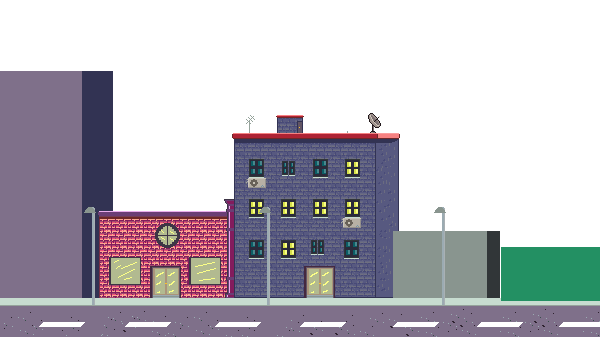
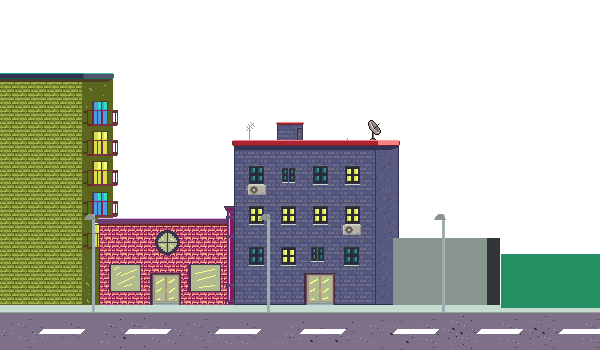
refactor: improve CustomCursor component structure and style handling feat: add unoptimized prop to Scene component image chore: update building and cursor images

Changed region(s): [[0.0, 0.2077, 1.0, 0.9792], [0.39, 0.3264, 0.66, 0.5341], [0.84, 0.7122, 1.0, 0.7418]]

diff --git a/app/components/CustomCursor.tsx b/app/components/CustomCursor.tsx
@@ -3,69 +3,75 @@
 import { useEffect, useState } from "react";
 
 export default function CustomCursor() {
-    const [pos, setPos] = useState({ x: 0, y: 0 });
-    const [clicked, setClicked] = useState(false);
+  const [pos, setPos] = useState({ x: 0, y: 0 });
+  const [clicked, setClicked] = useState(false);
 
-    useEffect(() => {
-        const move = (e: MouseEvent) => {
-            setPos({ x: e.clientX + 16, y: e.clientY + 16 });
-        }
+  useEffect(() => {
+    const move = (e: MouseEvent) => {
+      setPos({ x: e.clientX + 16, y: e.clientY + 16 });
+    };
 
-        const click = (e: MouseEvent) => {
-            if (e.type === "mousedown") setClicked(true);
-            else setClicked(false);
+    window.addEventListener("mousemove", move);
+    return () => {
+      window.removeEventListener("mousemove", move);
+    };
+  }, []);
 
-        }
+  useEffect(() => {
+    const click = (e: MouseEvent) => {
+      if (e.type === "mousedown") setClicked(true);
+      else if (e.type === "mouseup") setClicked(false);
+    };
 
-        window.addEventListener("click", click);
+    window.addEventListener("mousedown", click);
+    window.addEventListener("mouseup", click);
 
-        window.addEventListener("mousemove", move);
-        return () => {
-            window.removeEventListener("mousemove", move);
-            window.removeEventListener("click", click);
-        };
-    }, []);
+    return () => {
+      window.removeEventListener("mousedown", click);
+      window.removeEventListener("mouseup", click);
+    };
+  }, []);
 
-    return (
-        <div>
-
-            {clicked &&
-
-                <div
-                    style={{
-                        position: "fixed",
-                        left: pos.x,
-                        top: pos.y,
-                        width: "32px",
-                        height: "32px",
-                        backgroundImage: "url('/assets/cursor/pointer.png')",
-                        backgroundSize: "contain",
-                        backgroundRepeat: "no-repeat",
-                        transform: "translate(-50%, -50%)",
-                        pointerEvents: "none",
-                        zIndex: 9999,
-                        imageRendering: "pixelated",
-                    }}
-                ></div>
-            } : {
-                <div
-                    style={{
-                        position: "fixed",
-                        left: pos.x,
-                        top: pos.y,
-                        width: "32px",
-                        height: "32px",
-                        backgroundImage: "url('/assets/cursor/pointerClicked.png')",
-                        backgroundSize: "contain",
-                        backgroundRepeat: "no-repeat",
-                        transform: "translate(-50%, -50%)",
-                        pointerEvents: "none",
-                        zIndex: 9999,
-                        imageRendering: "pixelated",
-                    }}
-                ></div>
-            }
-        </div>
-    )
-
+  return (
+    <div>
+      {clicked && (
+        <div
+          style={{
+            position: "fixed",
+            left: pos.x,
+            top: pos.y,
+            width: "32px",
+            height: "32px",
+            backgroundImage: "url('/assets/cursor/pointerClicked.png')",
+            backgroundSize: "contain",
+            backgroundRepeat: "no-repeat",
+            transform: "translate(-50%, -50%)",
+            pointerEvents: "none",
+            zIndex: 9999,
+            imageRendering: "pixelated",
+            display: !clicked ? "none" : "block",
+          }}
+        ></div>
+      )}{" "}
+      {
+        <div
+          style={{
+            position: "fixed",
+            left: pos.x,
+            top: pos.y,
+            width: "32px",
+            height: "32px",
+            backgroundImage: "url('/assets/cursor/pointer.png')",
+            backgroundSize: "contain",
+            backgroundRepeat: "no-repeat",
+            transform: "translate(-50%, -50%)",
+            pointerEvents: "none",
+            zIndex: 9999,
+            imageRendering: "pixelated",
+            display: !clicked ? "block" : "none",
+          }}
+        ></div>
+      }
+    </div>
+  );
 }

diff --git a/app/components/Scene.tsx b/app/components/Scene.tsx
@@ -69,6 +69,7 @@ export default function Scene() {
               width={100}
               height={100}
               className="absolute"
+              unoptimized
               style={{
                 top: "30%",   // adjust these to match the building
                 left: "42%",
